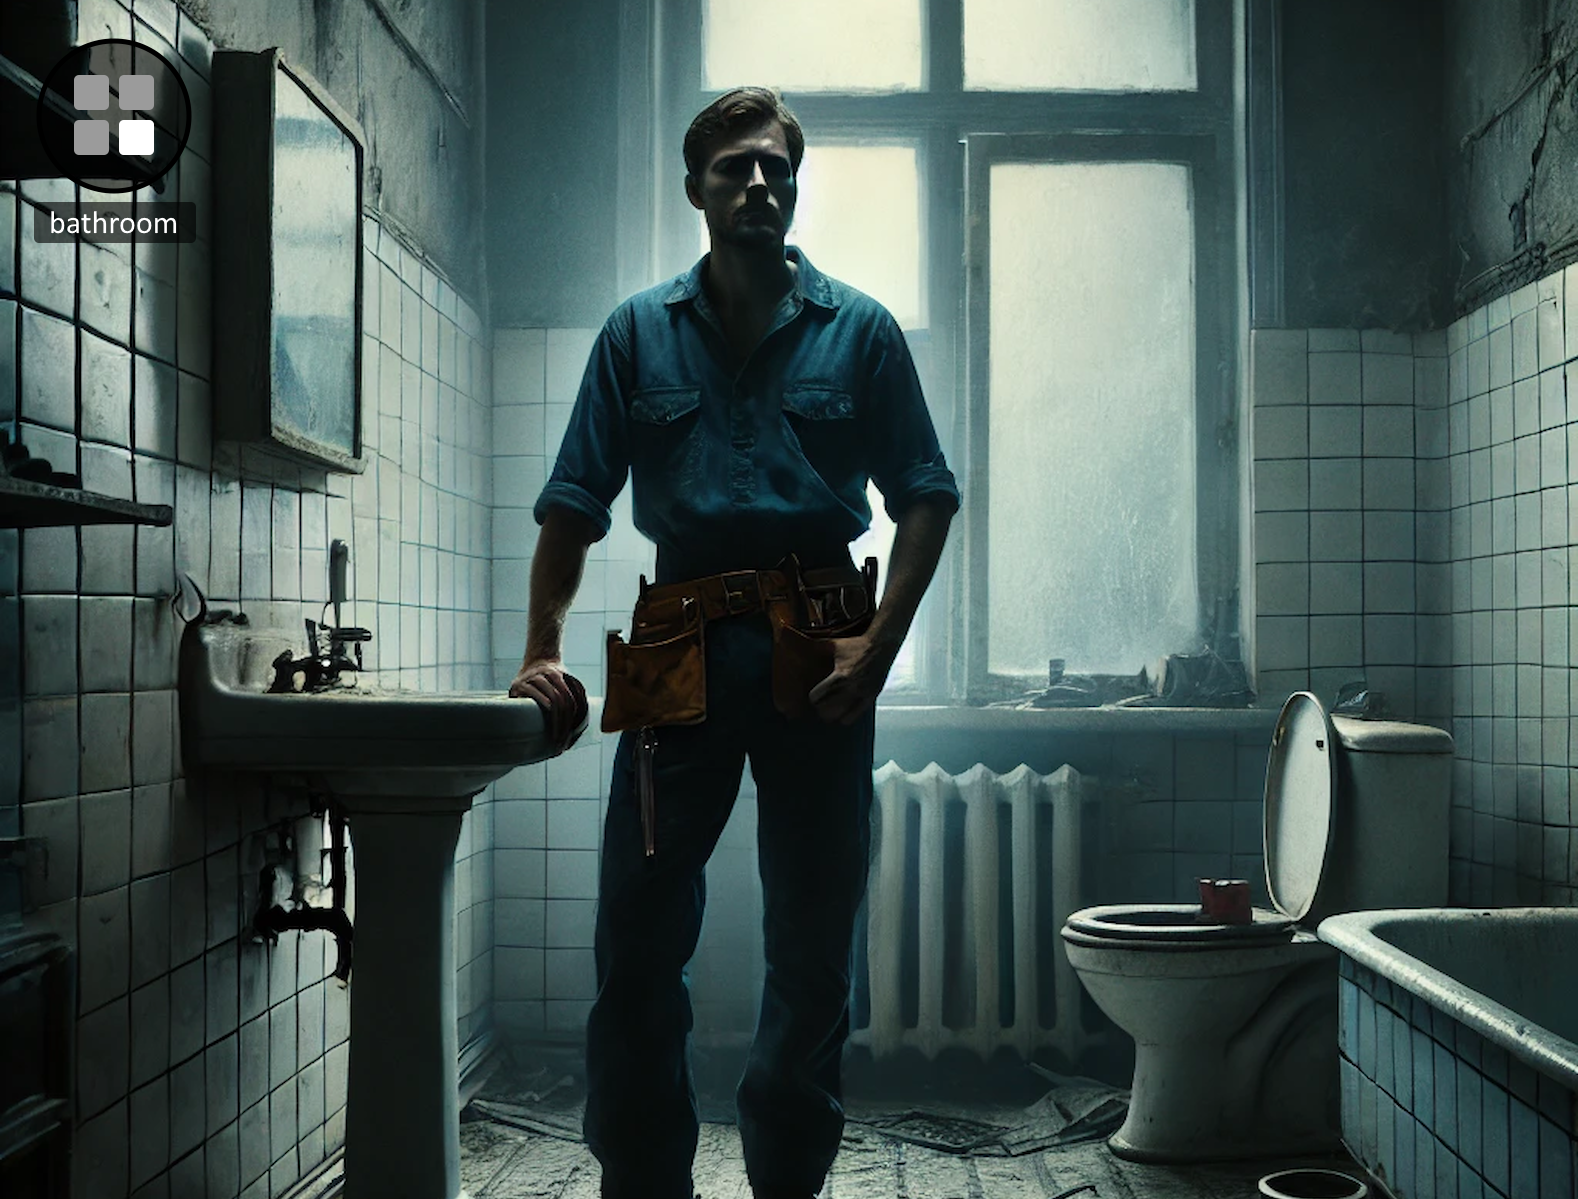
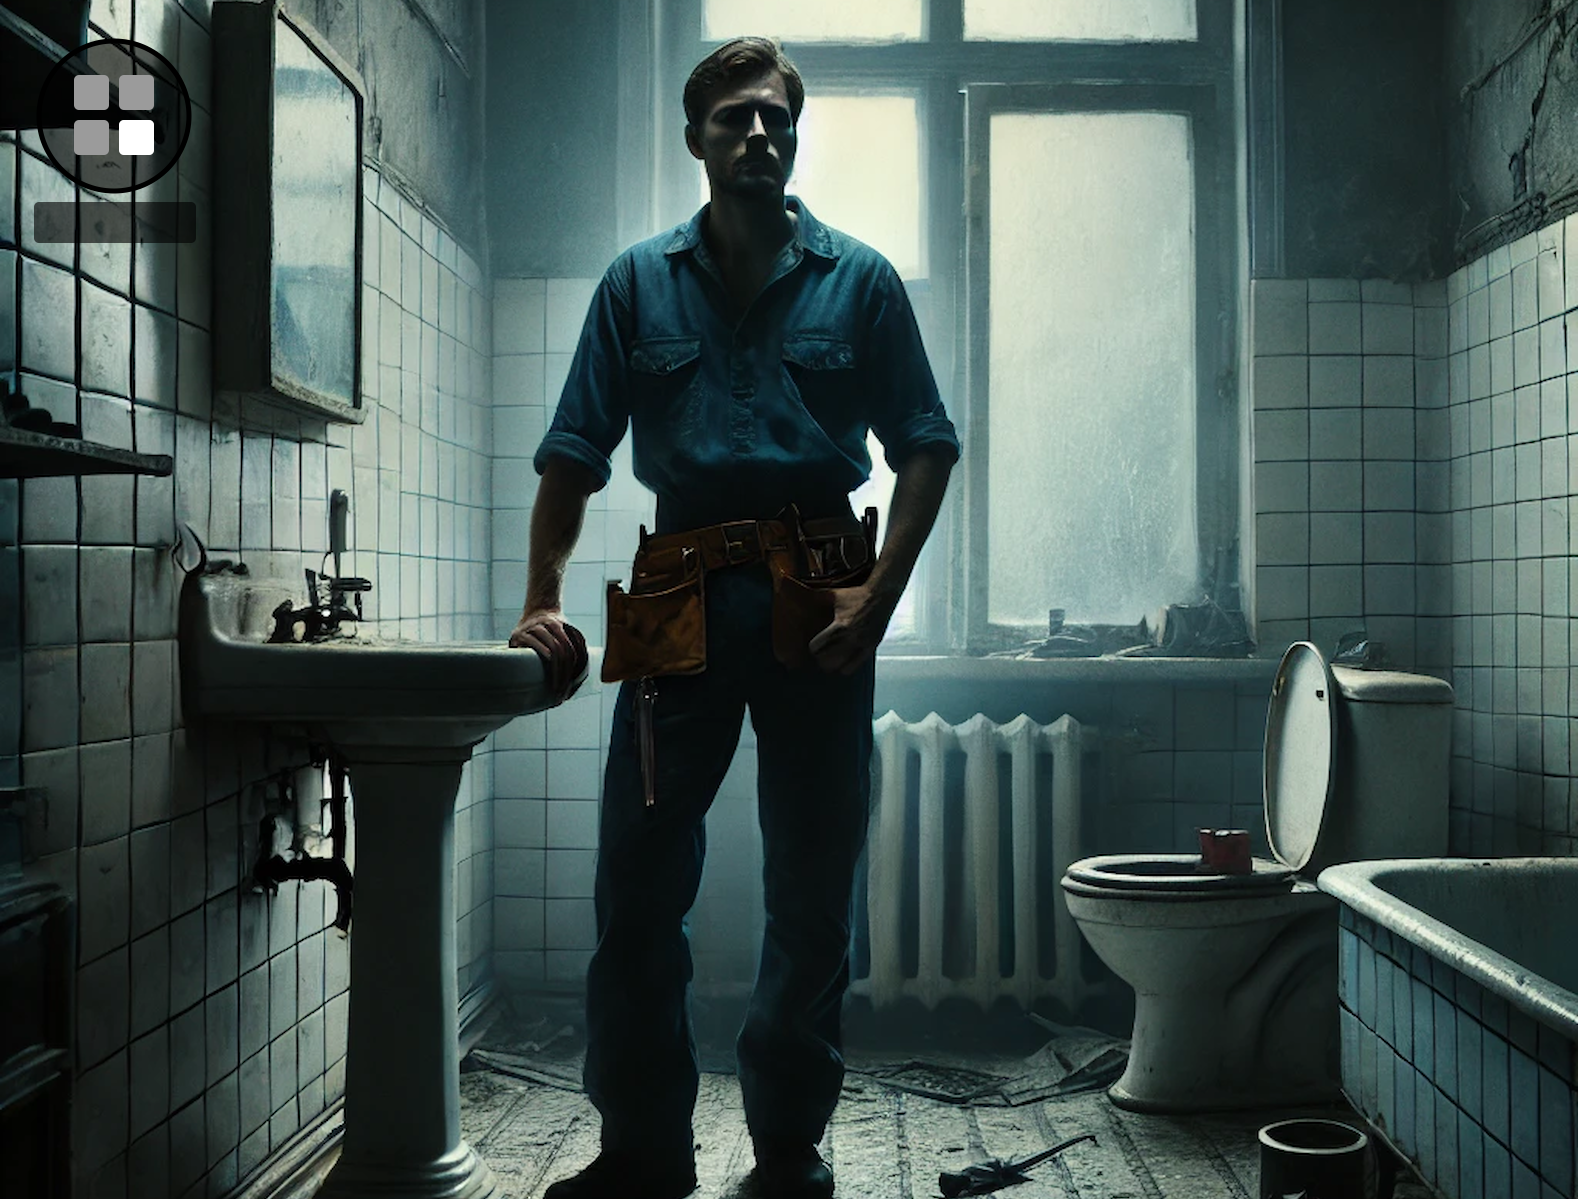
updated room images to better suit the navigation menu and updated button opacity and label updating when moues hovering

diff --git a/src/main/java/nz/ac/auckland/se206/controllers/RoomController.java b/src/main/java/nz/ac/auckland/se206/controllers/RoomController.java
@@ -28,11 +28,13 @@ public class RoomController {
   @FXML private Label lblProfession;
   @FXML private Button btnGuess;
   @FXML private Pane room;
+  @FXML private Label lblRoomName;
 
   private ChatController chatController;
   private FXMLLoader chatBoxLoader;
 
   private static GameStateContext context = new GameStateContext();
+  private String originalRoomName = null;
 
   /** Initializes the room view. */
   @FXML
@@ -107,6 +109,54 @@ public class RoomController {
   @FXML
   private void handleGuessClick(ActionEvent event) throws IOException {
     context.handleGuessClick();
+  }
+
+  /**
+   * Handles mouse hover exiting on rectangles representing button for map navigation.
+   *
+   * @param event the mouse event triggered by clicking a rectangle
+   * @throws IOException if there is an I/O error
+   */
+  @FXML
+  private void handleRectangleExit(MouseEvent event) throws IOException {
+    Rectangle hoveredRectangle = (Rectangle) event.getSource();
+    hoveredRectangle.setOpacity(0.0);
+
+    // Reset room label to the original room name
+    lblRoomName.setText(originalRoomName);
+  }
+
+  /**
+   * Handles mouse hovers on rectangles representing button for map navigation.
+   *
+   * @param event the mouse event triggered by clicking a rectangle
+   * @throws IOException if there is an I/O error
+   */
+  @FXML
+  private void handleRectangleEnter(MouseEvent event) throws IOException {
+    Rectangle hoveredRectangle = (Rectangle) event.getSource();
+    hoveredRectangle.setOpacity(1.0);
+
+    // Store the original room name if not already stored
+    if (originalRoomName == null) {
+      originalRoomName = lblRoomName.getText();
+    }
+
+    // Update room label depending on the hovered rectangle
+    switch (hoveredRectangle.getId()) {
+      case "rectPerson1":
+        lblRoomName.setText("Living Room");
+        return;
+      case "rectPerson2":
+        lblRoomName.setText("Garage");
+        return;
+      case "rectPerson3":
+        lblRoomName.setText("Bathroom");
+        return;
+      case "rectPerson4":
+        lblRoomName.setText("Bedroom");
+        return;
+    }
   }
 
   /**
